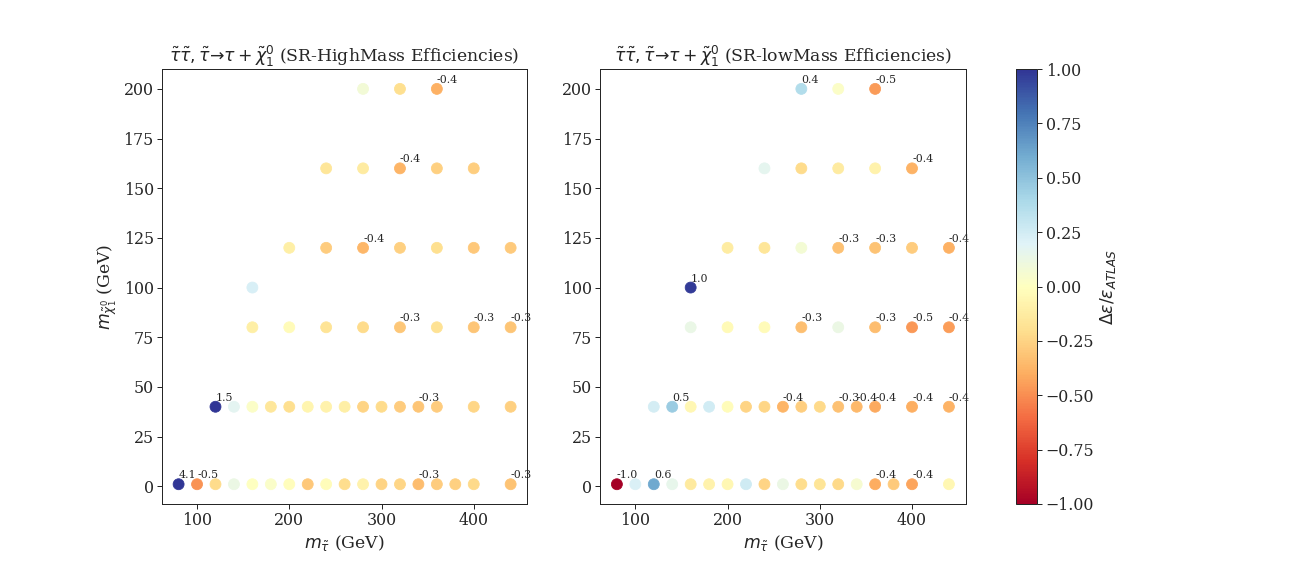
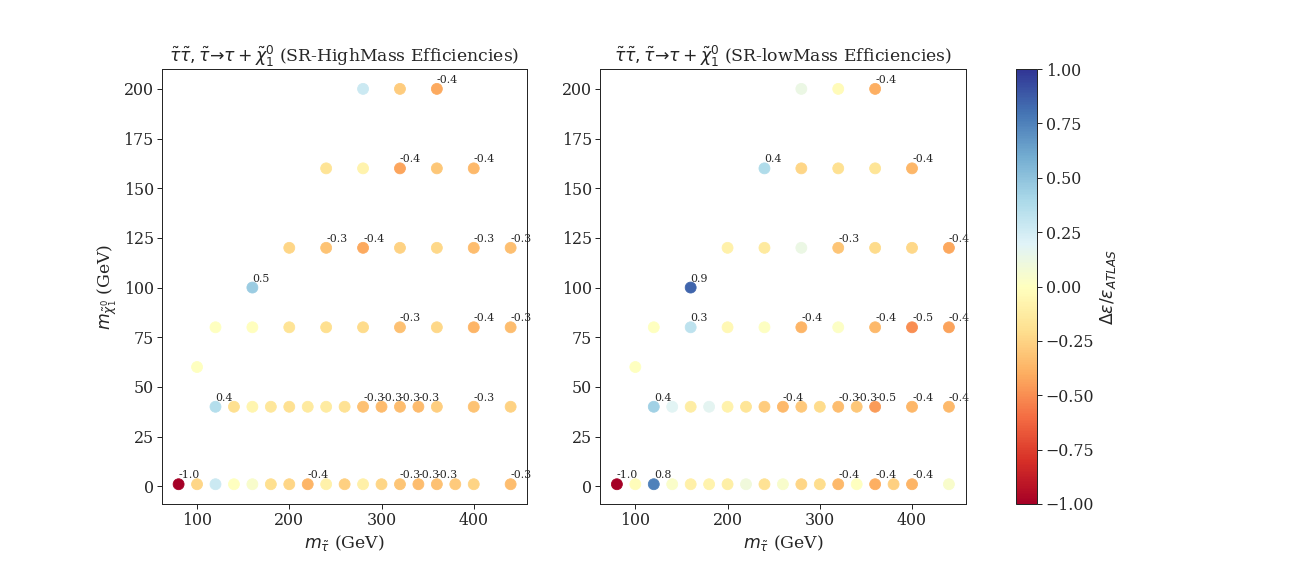
Updated atlas_susy_2018_04 validation

diff --git a/myCheckMateFiles/validation/validation_plots/plotValidation_atlas_susy_2018_04_Stau.py b/myCheckMateFiles/validation/validation_plots/plotValidation_atlas_susy_2018_04_Stau.py
@@ -19,66 +19,83 @@ sns.set_context('paper', font_scale=1.8)
 cm = plt.cm.get_cmap('RdYlBu')
 
 # %% Load data
-effOfficialHigh = pd.read_csv('./ATLAS_data/HEPData-ins1765529-v1-Eff_Acc_table_SRhigh.csv',
-                                comment='#', delimiter=',', names=['mstau','mlsp','effATLAS'],
-                                skiprows=10)
+effOfficialHigh = np.genfromtxt('./ATLAS_data/HEPData-ins1765529-v1-Eff_Acc_table_SRhigh.csv',
+                                comments='#', delimiter=',', names=['mstau','mlsp','effATLAS'],
+                                skip_header=10)
 
-effOfficialLow = pd.read_csv('./ATLAS_data/HEPData-ins1765529-v1-Eff_Acc_table_SRlow.csv',
-                                comment='#', delimiter=',', names=['mstau','mlsp','effATLAS'],
-                                skiprows=10)
+effOfficialLow = np.genfromtxt('./ATLAS_data/HEPData-ins1765529-v1-Eff_Acc_table_SRlow.csv',
+                                comments='#', delimiter=',', names=['mstau','mlsp','effATLAS'],
+                                skip_header=10)
 
-effs = pd.concat([effOfficialLow,effOfficialHigh],
-                        keys=['SR-lowMass','SR-highMass'])
-effs['effATLAS'] = effs['effATLAS']/100.
-effs['effATLAS'] = effs['effATLAS'].replace({0.0 : np.nan})
-effs["effRecast"] = np.nan
-effs["r-value"] = np.nan
+effOfficialHigh['effATLAS'] = effOfficialHigh['effATLAS']/100.
+effOfficialLow['effATLAS'] = effOfficialLow['effATLAS']/100.
 
 # %% Get data from CheckMate results
 resultFolder = '../validation_results/atlas_susy_2018_04'
 slhaFolder = '../validation_slha/'
+recastDataLow = []
+recastDataHigh = []
+rData = []
 for slhaFile in glob.glob(slhaFolder+'/*.slha'):
     slhaData = pyslha.readSLHAFile(slhaFile)
     mstau = slhaData.blocks['MASS'][1000013]
     mlsp = slhaData.blocks['MASS'][1000022]
     resDir = os.path.splitext(os.path.basename(slhaFile))[0]
-    resFile = os.path.join(resultFolder,resDir,'analysis',
-                'StauStau_atlas_susy_2018_04_signal.dat')
+    resFile = os.path.join(resultFolder,resDir,'evaluation',
+                'total_results.txt')
     if not os.path.isfile(resFile):
         continue
-    with open(resFile,'r') as f:
-        acc = dict([[l.split()[0],eval(l.split()[3])] for l in f.readlines()[-2:]])
-    for sr,eff in acc.items():
-        effs.loc[(effs.index.isin([sr],level=0)) &
-                 (effs['mstau'] == mstau) &
-                (effs['mlsp'] == mlsp),'effRecast'] = eff
-    resFile = os.path.join(resultFolder,resDir,
-                'result.txt')
-    with open(resFile,'r') as f:
-        r = eval(f.read().split('Result for r:')[1].split('\n')[0])
-        effs.loc[(effs['mstau'] == mstau) &
-                (effs['mlsp'] == mlsp),'r-value'] = r
+    data = np.genfromtxt(resFile,names=True,dtype=None,encoding=None)
+    ilow = np.where(data['sr'] == 'SR-lowMass')[0]
+    ihigh = np.where(data['sr'] == 'SR-highMass')[0]
+    recastDataLow.append([mstau,mlsp,data[ilow]])
+    recastDataHigh.append([mstau,mlsp,data[ihigh]])
+    rData.append([mstau,mlsp,data[ihigh]['robs'][0],data[ilow]['robs'][0]])
+recastDataLow = np.array(recastDataLow)
+recastDataHigh = np.array(recastDataHigh)
+rData = np.array(rData)
 
 # %% Compute relative difference
-effs['relDiff'] = (effs.effRecast - effs.effATLAS)/effs.effATLAS
+effsDiffLow = []
+for pt in recastDataLow:
+    diff = 0.0
+    effOff = 0.0
+    ioff = np.where((effOfficialLow['mstau'] == pt[0]) & (effOfficialLow['mlsp'] == pt[1]))
+    if ioff:
+        effOff = effOfficialLow['effATLAS'][ioff][0]
+    if effOff:
+        diff = (pt[2]['eff']-effOff)/effOff
+    effsDiffLow.append([pt[0],pt[1],diff])
+effsDiffLow = np.array(effsDiffLow)
+effsDiffHigh = []
+for pt in recastDataHigh:
+    diff = 0.0
+    effOff = 0.0
+    ioff = np.where((effOfficialHigh['mstau'] == pt[0]) & (effOfficialHigh['mlsp'] == pt[1]))
+    if ioff:
+        effOff = effOfficialHigh['effATLAS'][ioff][0]
+    if effOff:
+        diff = (pt[2]['eff']-effOff)/effOff
+    effsDiffHigh.append([pt[0],pt[1],diff])
+effsDiffHigh = np.array(effsDiffHigh)
 
 # %% plot result High mass
 fig, axes = plt.subplots(nrows=1, ncols=2, figsize=(18,8))
-ax = axes[0].scatter(effs.loc['SR-highMass']['mstau'],effs.loc['SR-highMass']['mlsp'],
-    c=effs.loc['SR-highMass']['relDiff'],cmap=cm,vmin=-1.0,vmax=1.0,s=120)
-for index,row in effs.loc['SR-highMass'].iterrows():
-    if abs(row['relDiff']) > 0.3 and not np.isnan([row['relDiff']]):
-        axes[0].annotate('%1.1f'%row['relDiff'],(row['mstau'],row['mlsp']+3.),
+ax = axes[0].scatter(effsDiffHigh[:,0],effsDiffHigh[:,1],
+    c=effsDiffHigh[:,2],cmap=cm,vmin=-1.0,vmax=1.0,s=120)
+for pt in effsDiffHigh:
+    if abs(pt[2]) > 0.3:
+        axes[0].annotate('%1.1f'%pt[2],(pt[0],pt[1]+3.),
                     fontsize=11)
 axes[0].set_xlabel(r'$m_{\tilde{\tau}}$ (GeV)')
 axes[0].set_ylabel(r'$m_{\tilde{\chi}_1^0}$ (GeV)')
 axes[0].set_title(r'$\tilde{\tau} \tilde{\tau}, \tilde{\tau} \to \tau + \tilde{\chi}_1^0$ (SR-HighMass Efficiencies)')
 
-ax = axes[1].scatter(effs.loc['SR-lowMass']['mstau'],effs.loc['SR-lowMass']['mlsp'],
-    c=effs.loc['SR-lowMass']['relDiff'],cmap=cm,vmin=-1.0,vmax=1.0,s=120)
-for index,row in effs.loc['SR-lowMass'].iterrows():
-    if abs(row['relDiff']) > 0.3 and not np.isnan([row['relDiff']]):
-        axes[1].annotate('%1.1f'%row['relDiff'],(row['mstau'],row['mlsp']+3.),
+ax = axes[1].scatter(effsDiffLow[:,0],effsDiffLow[:,1],
+    c=effsDiffLow[:,2],cmap=cm,vmin=-1.0,vmax=1.0,s=120)
+for pt in effsDiffLow:
+    if abs(pt[2]) > 0.3:
+        axes[1].annotate('%1.1f'%pt[2],(pt[0],pt[1]+3.),
                     fontsize=11)
 axes[1].set_xlabel(r'$m_{\tilde{\tau}}$ (GeV)')
 # axes[1].set_ylabel(r'$m_{\tilde{\chi}_1^0}$ (GeV)')
@@ -89,8 +106,11 @@ cb.set_label(r'$\Delta\epsilon/\epsilon_{ATLAS}$')
 plt.savefig("atlas_susy_2018_04_StauEffs.png")
 
 
-## %% Get exclusion contours for signal +- 20%
-contours = getContour(effs.loc['SR-lowMass']['mstau'],effs.loc['SR-lowMass']['mlsp'],effs.loc['SR-lowMass']['r-value'],levels=[1.0])
+
+
+## %% Get exclusion contours for signal
+contoursHigh = getContour(rData[:,0],rData[:,1],rData[:,2],levels=[1.0])
+contoursLow = getContour(rData[:,0],rData[:,1],rData[:,3],levels=[1.0])
 
 # %% Load data
 offCurveComb = np.genfromtxt('./ATLAS_data/HEPData-ins1765529-v1-Exclusion_contour_1_Obs.csv',
@@ -101,29 +121,31 @@ offCurveHigh = np.genfromtxt('./ATLAS_data/HEPData-ins1765529-v1-Exclusion_conto
                         delimiter=',', names=True, skip_header=10)
 
 # %% Plot exclusion curve
-fig = plt.figure(figsize=(12,8))
-ax = plt.scatter(effs.loc['SR-lowMass']['mstau'],effs.loc['SR-lowMass']['mlsp'],
-    c=effs.loc['SR-lowMass']['r-value'],cmap=cm,vmin=0.0,vmax=2.0,s=70)
-for level,curves in contours.items():
-    if level != 1.0: continue
-    npts = [len(c) for c in curves]
+fig, axes = plt.subplots(nrows=1, ncols=2, figsize=(18,8))
+ax = axes[0].scatter(rData[:,0],rData[:,1],
+    c=rData[:,2],cmap=cm,vmin=0.0,vmax=2.0,s=70)
+for level,curves in contoursHigh.items():
     for curve in curves:
-        if len(curve) != max(npts): continue
-        plt.plot(curve[:,0],curve[:,1],label='Recast (r = %s)' %str(level),linestyle='--',linewidth=4)
+        axes[0].plot(curve[:,0],curve[:,1],label='Recast (r = %s)' %str(level),linestyle='--',linewidth=4)
+axes[0].plot(offCurveHigh['MSTAU_GeV'],offCurveHigh['MNEUTRALINO1_GeV'],linewidth=4,
+        color='black',label='ATLAS-SUSY-2018-04 (High Mass)')
 
-plt.plot(offCurveComb['MSTAU_GeV'],offCurveComb['MNEUTRALINO1_GeV'],linewidth=4,
-        color='black',label='ATLAS-SUSY-2018-04 (Combined)')
-plt.plot(offCurveLow['MSTAU_GeV'],offCurveLow['MNEUTRALINO1_GeV'],linewidth=4,
-        color='black',label='ATLAS-SUSY-2018-04 (Low Mass)', linestyle='-.')
-plt.plot(offCurveHigh['MSTAU_GeV'],offCurveHigh['MNEUTRALINO1_GeV'],linewidth=4,
-        color='black',label='ATLAS-SUSY-2018-04 (High Mass)', linestyle='--')
+ax = axes[1].scatter(rData[:,0],rData[:,1],
+    c=rData[:,3],cmap=cm,vmin=0.0,vmax=2.0,s=70)
+for level,curves in contoursLow.items():
+    for curve in curves:
+        axes[1].plot(curve[:,0],curve[:,1],label='Recast (r = %s)' %str(level),linestyle='--',linewidth=4)
+axes[1].plot(offCurveLow['MSTAU_GeV'],offCurveLow['MNEUTRALINO1_GeV'],linewidth=4,
+        color='black',label='ATLAS-SUSY-2018-04 (Low Mass)')
+axes[0].legend()
+axes[0].set_xlabel(r'$m_{\tilde{\tau}}$ (GeV)')
+axes[0].set_ylabel(r'$m_{\tilde{\chi}_1^0}$ (GeV)')
+axes[0].set_title(r'$\tilde{\tau} \tilde{\tau}, \tilde{\tau} \to \tau + \tilde{\chi}_1^0$ (SR-HighMass)')
+axes[1].legend()
+axes[1].set_xlabel(r'$m_{\tilde{\tau}}$ (GeV)')
+axes[1].set_title(r'$\tilde{\tau} \tilde{\tau}, \tilde{\tau} \to \tau + \tilde{\chi}_1^0$ (SR-lowMass)')
 
-
-plt.xlabel(r'$m_{\tilde{\tau}}$ (GeV)')
-plt.ylabel(r'$m_{\tilde{\chi}_1^0}$ (GeV)')
-cb = plt.colorbar(ax)
-cb.set_label(r'$r$')
-plt.legend()
-plt.title(r'$\tilde{\tau} \tilde{\tau}, \tilde{\tau} \to \tau + \tilde{\chi}_1^0$ (Best SR)')
+cb = fig.colorbar(ax, ax=axes.ravel().tolist())
+cb.set_label(r'$r = \sigma/\sigma_{UL}^{95}$')
 plt.savefig("atlas_susy_2018_04_Stau.png")
 plt.show()

diff --git a/myCheckMateFiles/validation/README.md b/myCheckMateFiles/validation/README.md
@@ -15,7 +15,7 @@ are:
 The CMS-SUS-16-32 analysis provided the covariance matrices (see [CMS_data](./validation_plots/CMS_data)), which are used
 for computing the exclusion curve in the validation plots.
 Although ATLAS-SUSY-2018-04 has provided likelihoods for computing a combined Stau limit, these *are not* used, thus the validation
-is only made at the efficiency level.
+compares the official exclusions for both signal regions.
 
 ## Validation Plots ##
 
@@ -25,7 +25,7 @@ using the data stored in [validation_slha.tar.gz](./validation_slha.tar.gz) and 
 
 * ATLAS-SUSY-2018-04:
 
-![Alt text](validation_plots/atlas_susy_2018_04_StauEffs.png?raw=true "Validation Plot")
+![Alt text](validation_plots/atlas_susy_2018_04_Stau.png?raw=true "Validation Plot")
 
 * CMS-SUS-16-032:
 
